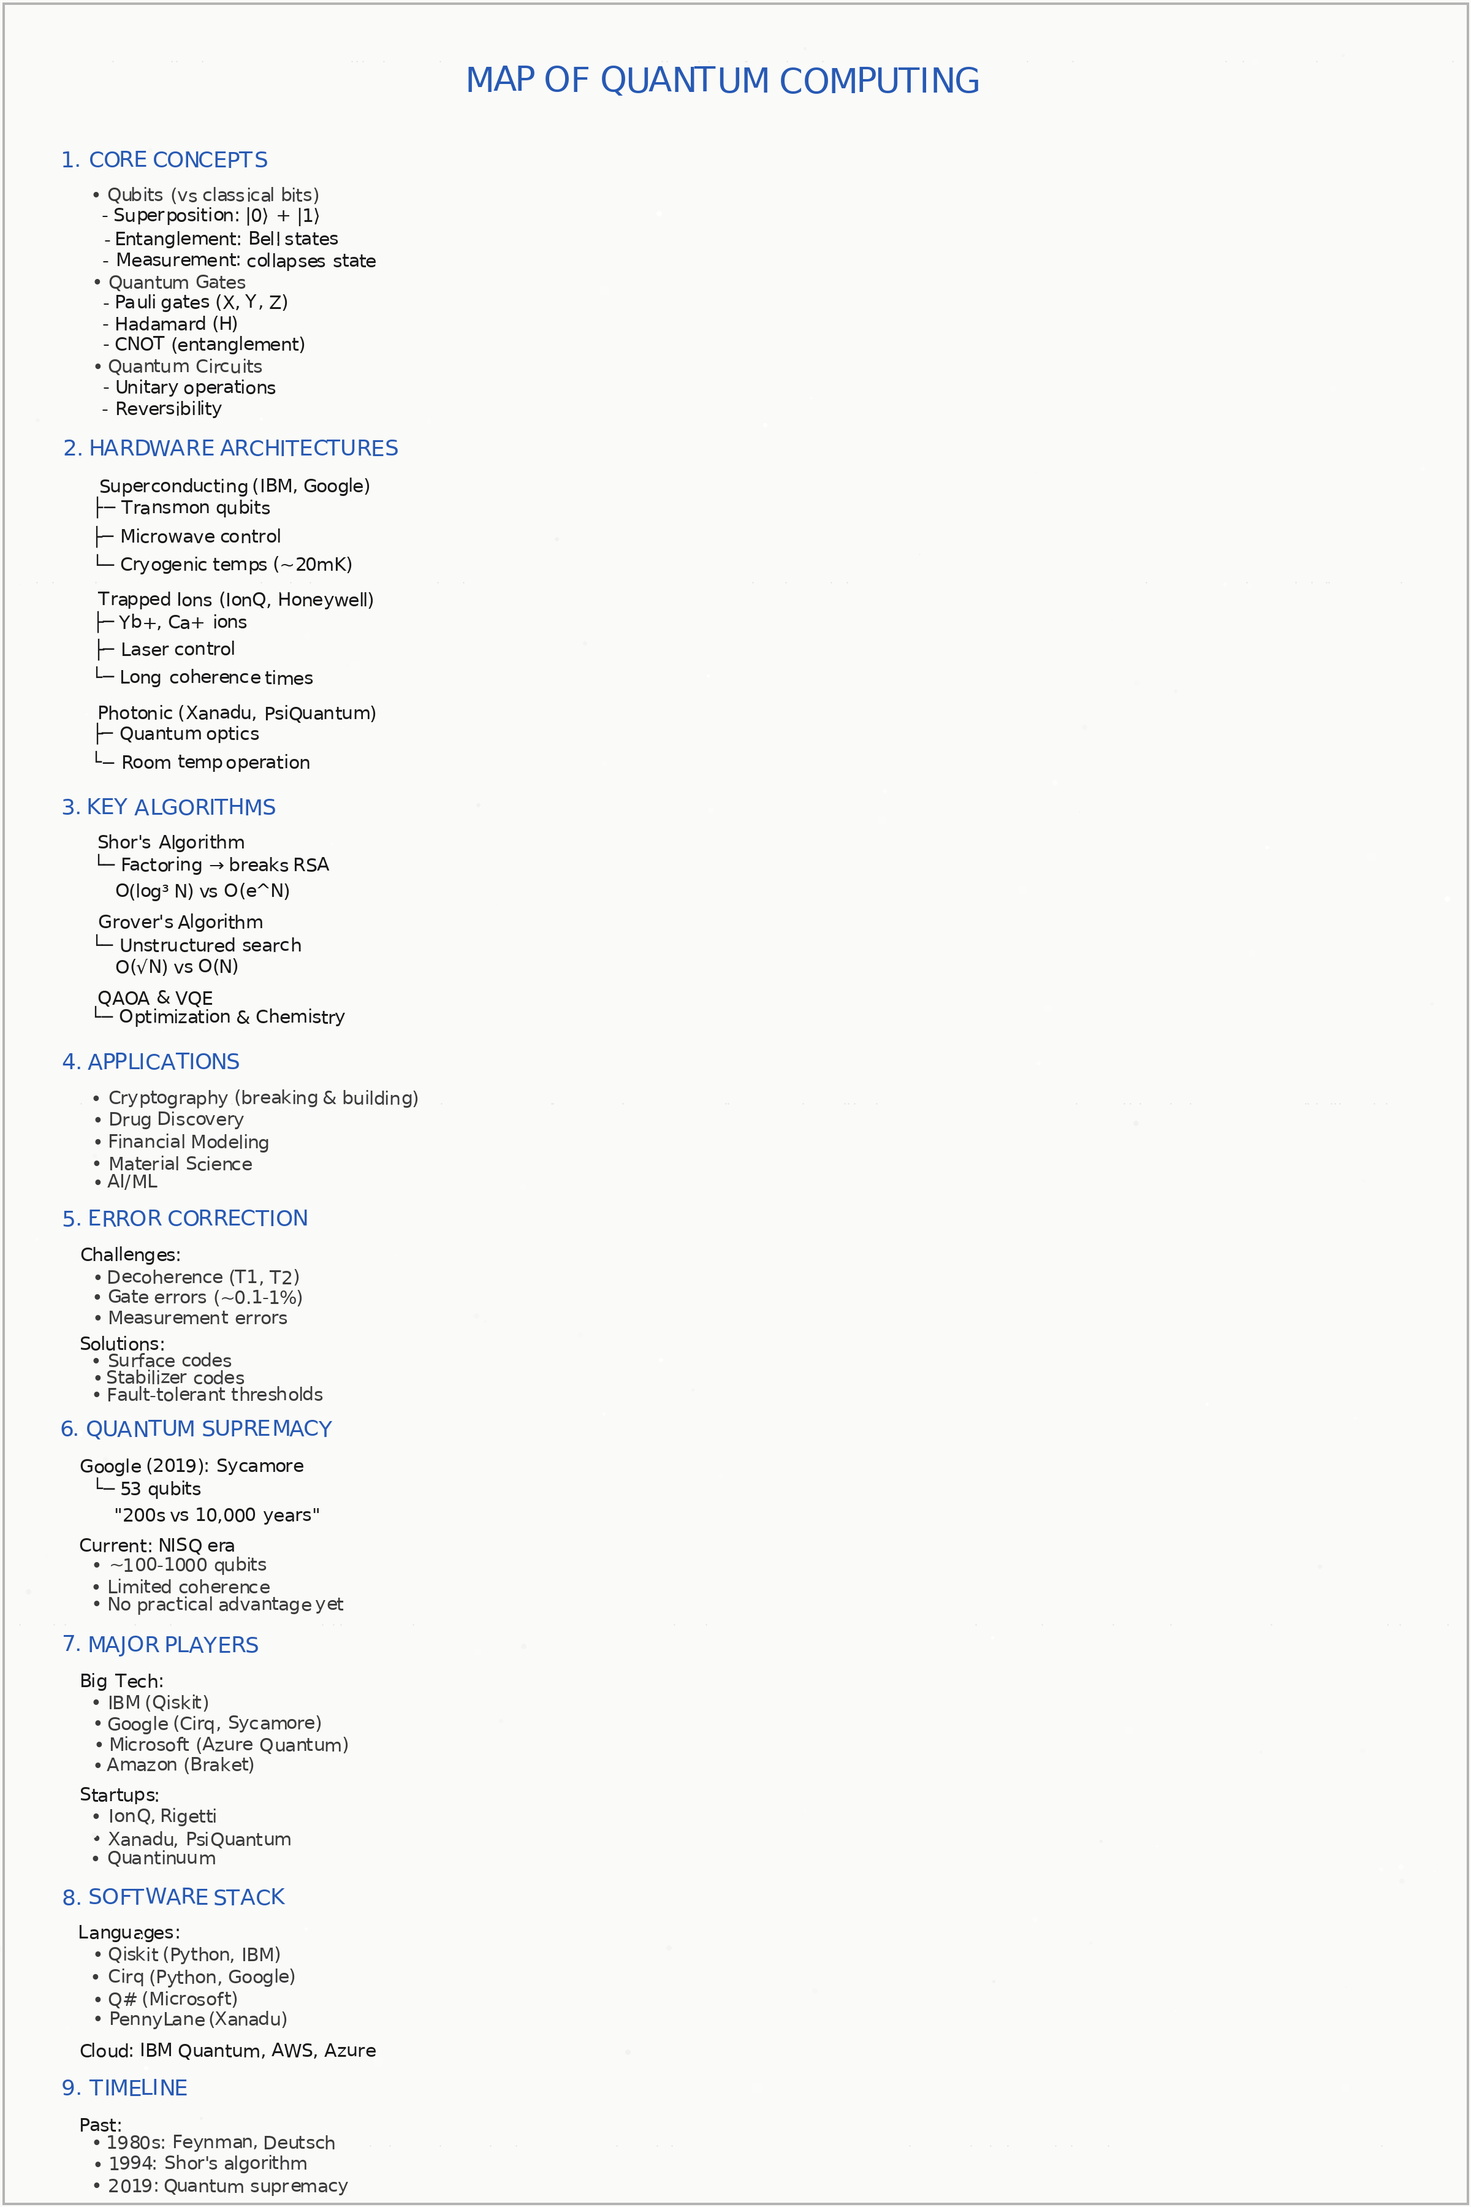
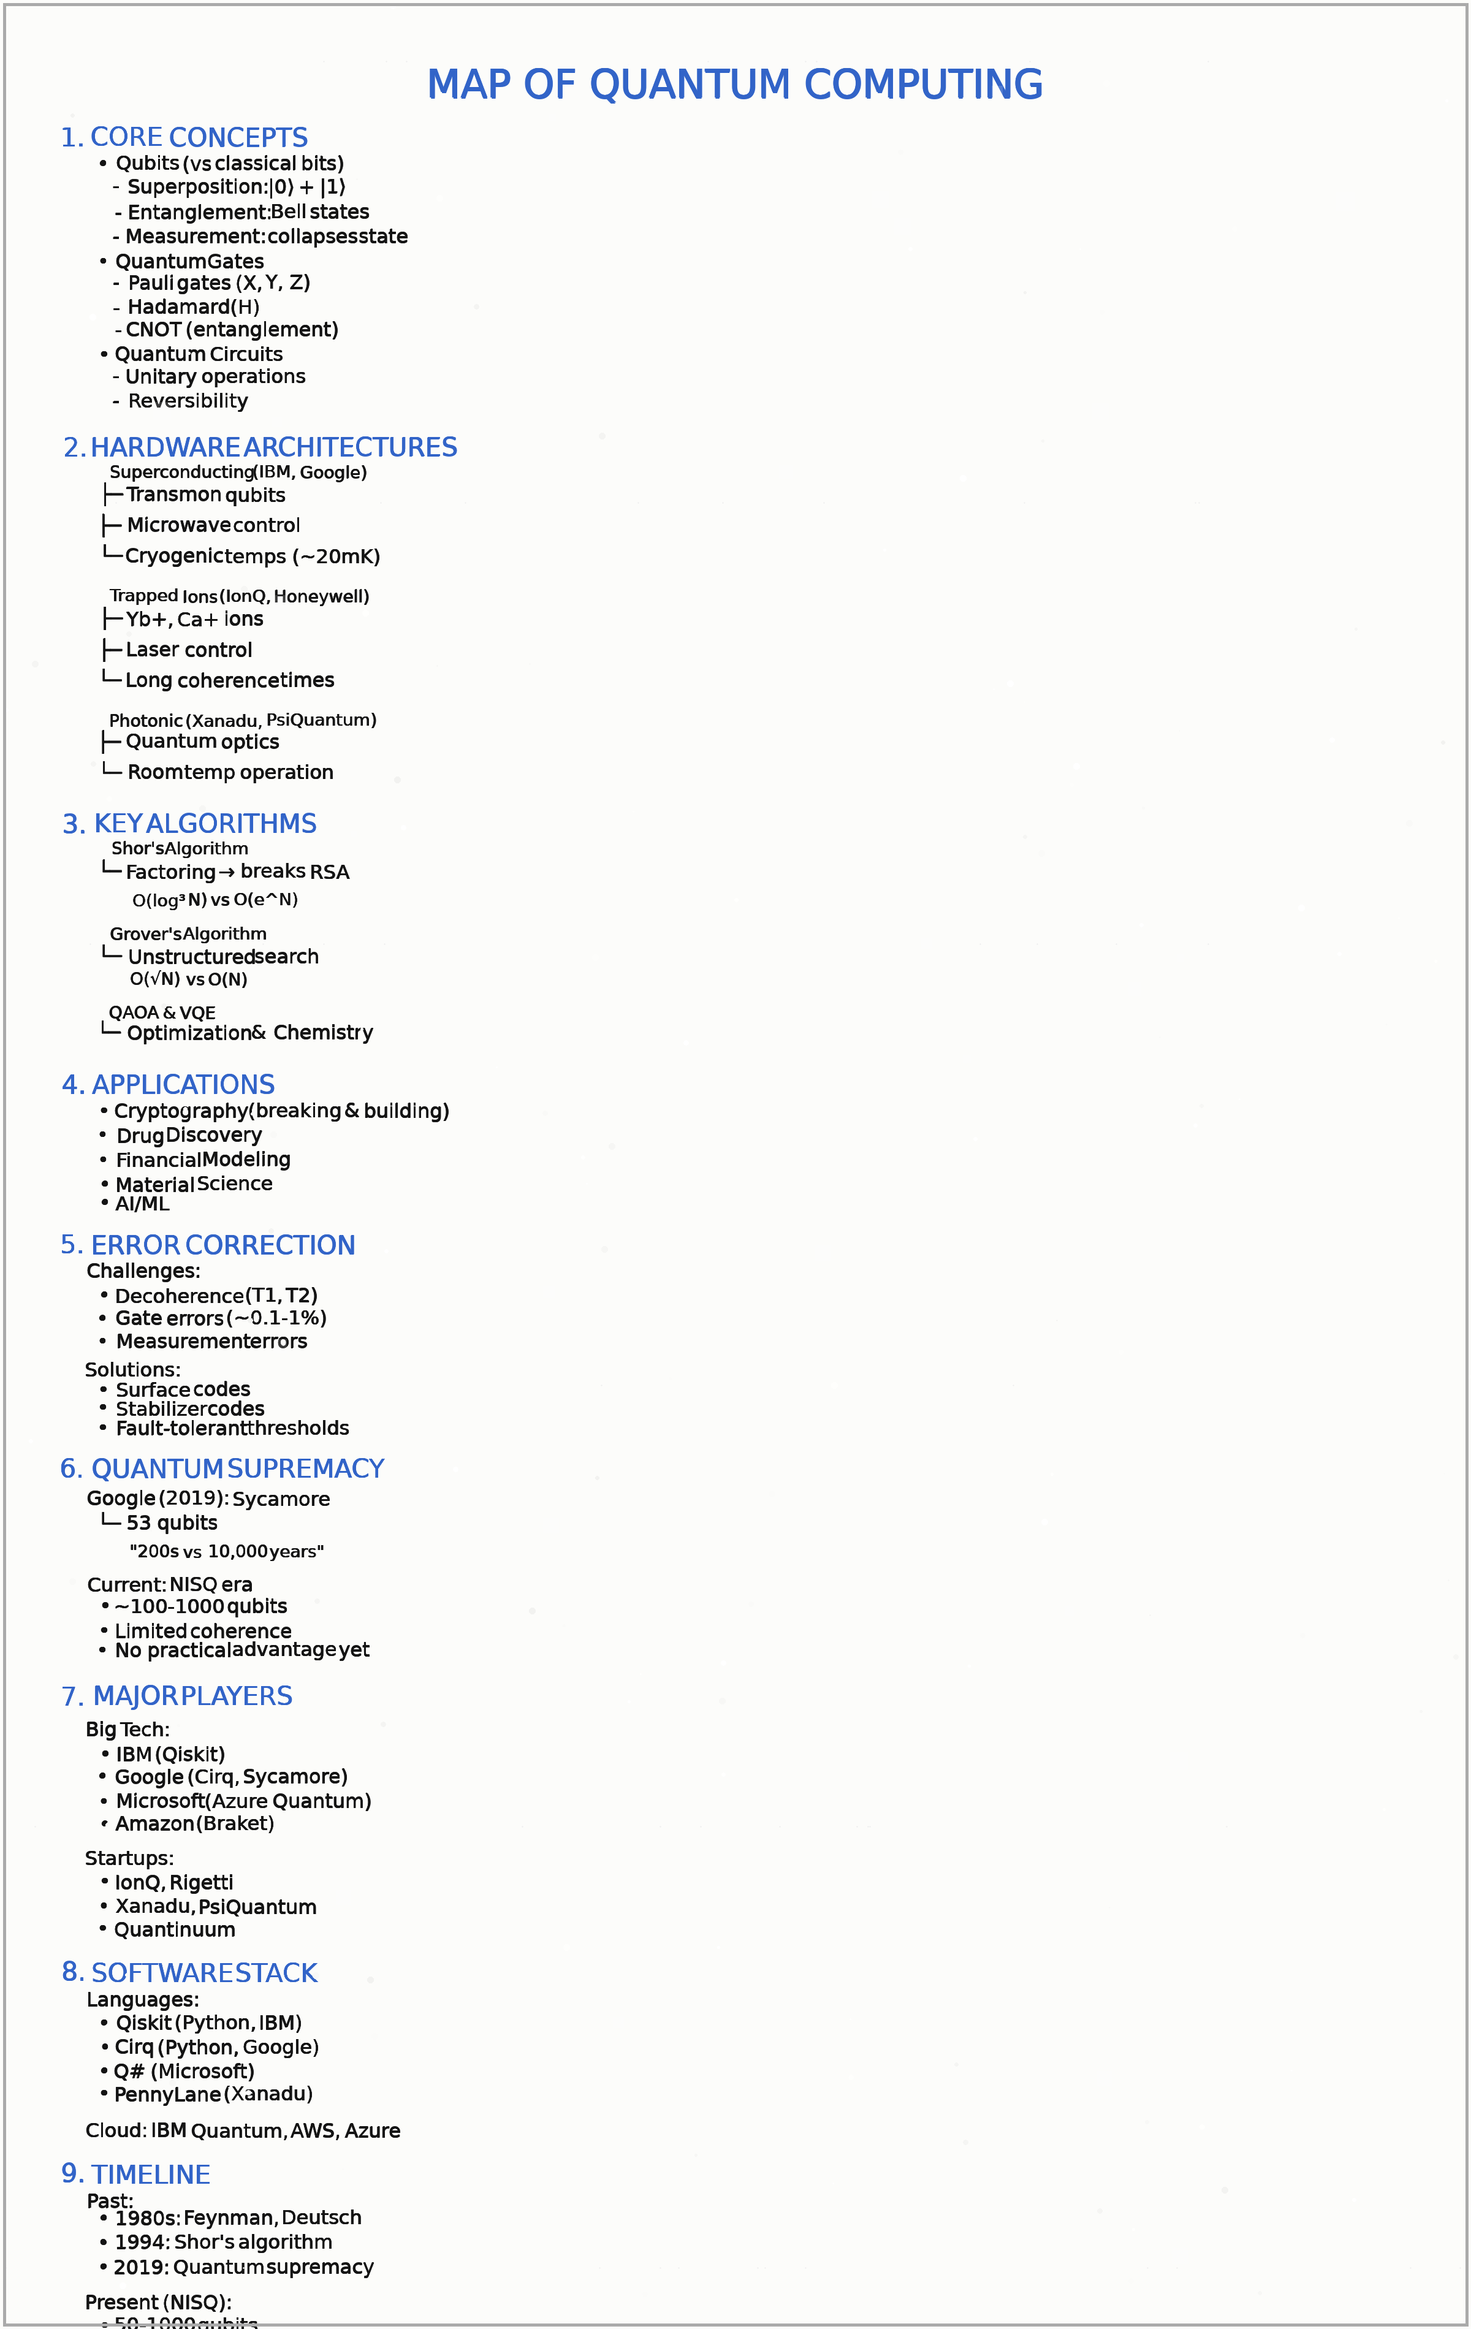
feat: Add script to generate handwritten quantum computing board

Changed region(s): [[0.0, 0.0311, 1.0, 1.0], [0.2812, 0.0311, 0.7188, 0.0622]]

diff --git a/generate_handwritten_board.py b/generate_handwritten_board.py
@@ -1,0 +1,369 @@
+#!/usr/bin/env python3
+"""
+Generate a truly handwritten-style board image
+Simulates marker/chalk writing on a whiteboard
+"""
+
+from PIL import Image, ImageDraw, ImageFont, ImageFilter
+import random
+import math
+
+# Board dimensions
+WIDTH = 2400
+HEIGHT = 3800
+MARGIN = 100
+
+# Colors - whiteboard with marker/chalk
+BOARD_COLOR = (252, 252, 250)  # Slightly off-white
+MARKER_COLOR = (20, 20, 20)  # Dark marker
+CHALK_BLUE = (50, 100, 200)  # Blue marker for headings
+CHALK_RED = (200, 50, 50)  # Red for emphasis
+
+def draw_handwritten_text(draw, text, position, font, color, img, 
+                          char_variation=3.0, word_variation=4.0, 
+                          size_variation=0.15, rotation_variation=2.0):
+    """Draw text that looks truly handwritten with significant variations"""
+    x, y = position
+    current_x = x
+    
+    words = text.split(' ')
+    for word in words:
+        if not word.strip():
+            current_x += font.size * 0.4
+            continue
+            
+        word_x = current_x
+        
+        # Word-level variation
+        word_offset_x = random.uniform(-word_variation, word_variation)
+        word_offset_y = random.uniform(-word_variation * 0.6, word_variation * 0.6)
+        word_rotation = random.uniform(-rotation_variation, rotation_variation)
+        
+        # Draw each character with significant variations
+        for char_idx, char in enumerate(word):
+            # Character-level variations
+            char_offset_x = random.uniform(-char_variation, char_variation)
+            char_offset_y = random.uniform(-char_variation * 0.8, char_variation * 0.8)
+            char_rotation = random.uniform(-rotation_variation * 0.7, rotation_variation * 0.7)
+            char_size_factor = 1.0 + random.uniform(-size_variation, size_variation)
+            
+            # Calculate position
+            char_x = word_x + word_offset_x + char_offset_x
+            char_y = y + word_offset_y + char_offset_y
+            
+            # Create a temporary image for this character to apply rotation
+            char_size = int(font.size * 1.5 * char_size_factor)
+            char_img = Image.new('RGBA', (char_size, char_size), (255, 255, 255, 0))
+            char_draw = ImageDraw.Draw(char_img)
+            
+            # Draw character in temp image
+            try:
+                # Try to get a slightly different sized font
+                char_font_size = int(font.size * char_size_factor)
+                char_font = ImageFont.truetype(font.path, char_font_size) if hasattr(font, 'path') else font
+            except:
+                char_font = font
+            
+            char_draw.text((char_size//4, char_size//4), char, fill=color, font=char_font)
+            
+            # Apply rotation
+            if abs(char_rotation) > 0.1:
+                rotated = char_img.rotate(char_rotation, expand=True, fillcolor=(255, 255, 255, 0))
+            else:
+                rotated = char_img
+            
+            # Paste onto main image
+            img.paste(rotated, (int(char_x), int(char_y)), rotated)
+            
+            # Get character width for spacing
+            bbox = char_draw.textbbox((0, 0), char, font=char_font)
+            char_width = (bbox[2] - bbox[0]) * 0.9  # Slight compression
+            word_x += char_width
+        
+        # Space between words
+        current_x = word_x + font.size * 0.35
+    
+    return current_x
+
+def draw_simple_handwritten(draw, text, position, font, color, 
+                           variation=2.5, size_var=0.12):
+    """Simpler handwritten effect - draw text multiple times with offsets for thickness"""
+    x, y = position
+    current_x = x
+    
+    words = text.split(' ')
+    for word in words:
+        if not word.strip():
+            current_x += font.size * 0.4
+            continue
+        
+        # Word position variation
+        base_x = current_x + random.uniform(-variation, variation)
+        base_y = y + random.uniform(-variation * 0.5, variation * 0.5)
+        
+        # Draw word multiple times with slight offsets for marker thickness
+        offsets = [
+            (0, 0),
+            (0.5, 0.3),
+            (-0.3, 0.4),
+            (0.3, -0.2),
+        ]
+        
+        for offset_x, offset_y in offsets:
+            draw.text((base_x + offset_x, base_y + offset_y), word + ' ', 
+                     fill=color, font=font)
+        
+        # Get word width
+        bbox = draw.textbbox((0, 0), word + ' ', font=font)
+        current_x += (bbox[2] - bbox[0]) * 0.95
+    
+    return current_x
+
+def create_handwritten_board():
+    """Create board with truly handwritten appearance"""
+    
+    # Create board
+    img = Image.new('RGB', (WIDTH, HEIGHT), BOARD_COLOR)
+    draw = ImageDraw.Draw(img)
+    
+    # Load fonts - use bold/regular for variation
+    try:
+        font_path = '/usr/share/fonts/truetype/dejavu/DejaVuSans.ttf'
+        title_font = ImageFont.truetype(font_path, 64)
+        heading_font = ImageFont.truetype(font_path, 42)
+        body_font = ImageFont.truetype(font_path, 32)
+        small_font = ImageFont.truetype(font_path, 28)
+    except:
+        title_font = ImageFont.load_default()
+        heading_font = ImageFont.load_default()
+        body_font = ImageFont.load_default()
+        small_font = ImageFont.load_default()
+    
+    y_pos = MARGIN
+    
+    # Title
+    title = "MAP OF QUANTUM COMPUTING"
+    bbox = draw.textbbox((0, 0), title, font=title_font)
+    text_width = bbox[2] - bbox[0]
+    x_pos = (WIDTH - text_width) // 2
+    
+    # Draw title with handwritten effect (thicker, more prominent)
+    for i in range(5):  # Multiple passes for thickness
+        offset_x = random.uniform(-1.5, 1.5)
+        offset_y = random.uniform(-1.5, 1.5)
+        draw.text((x_pos + offset_x, y_pos + offset_y), title, 
+                 fill=CHALK_BLUE, font=title_font)
+    
+    y_pos += 100
+    
+    # Content sections
+    content = [
+        ("1. CORE CONCEPTS", "heading", [
+            "• Qubits (vs classical bits)",
+            "  - Superposition: |0⟩ + |1⟩",
+            "  - Entanglement: Bell states",
+            "  - Measurement: collapses state",
+            "• Quantum Gates",
+            "  - Pauli gates (X, Y, Z)",
+            "  - Hadamard (H)",
+            "  - CNOT (entanglement)",
+            "• Quantum Circuits",
+            "  - Unitary operations",
+            "  - Reversibility",
+        ]),
+        ("2. HARDWARE ARCHITECTURES", "heading", [
+            "Superconducting (IBM, Google)",
+            "├─ Transmon qubits",
+            "├─ Microwave control",
+            "└─ Cryogenic temps (~20mK)",
+            "",
+            "Trapped Ions (IonQ, Honeywell)",
+            "├─ Yb+, Ca+ ions",
+            "├─ Laser control",
+            "└─ Long coherence times",
+            "",
+            "Photonic (Xanadu, PsiQuantum)",
+            "├─ Quantum optics",
+            "└─ Room temp operation",
+        ]),
+        ("3. KEY ALGORITHMS", "heading", [
+            "Shor's Algorithm",
+            "└─ Factoring → breaks RSA",
+            "   O(log³ N) vs O(e^N)",
+            "",
+            "Grover's Algorithm",
+            "└─ Unstructured search",
+            "   O(√N) vs O(N)",
+            "",
+            "QAOA & VQE",
+            "└─ Optimization & Chemistry",
+        ]),
+        ("4. APPLICATIONS", "heading", [
+            "• Cryptography (breaking & building)",
+            "• Drug Discovery",
+            "• Financial Modeling",
+            "• Material Science",
+            "• AI/ML",
+        ]),
+        ("5. ERROR CORRECTION", "heading", [
+            "Challenges:",
+            "• Decoherence (T1, T2)",
+            "• Gate errors (~0.1-1%)",
+            "• Measurement errors",
+            "",
+            "Solutions:",
+            "• Surface codes",
+            "• Stabilizer codes",
+            "• Fault-tolerant thresholds",
+        ]),
+        ("6. QUANTUM SUPREMACY", "heading", [
+            "Google (2019): Sycamore",
+            "└─ 53 qubits",
+            '   "200s vs 10,000 years"',
+            "",
+            "Current: NISQ era",
+            "• ~100-1000 qubits",
+            "• Limited coherence",
+            "• No practical advantage yet",
+        ]),
+        ("7. MAJOR PLAYERS", "heading", [
+            "Big Tech:",
+            "• IBM (Qiskit)",
+            "• Google (Cirq, Sycamore)",
+            "• Microsoft (Azure Quantum)",
+            "• Amazon (Braket)",
+            "",
+            "Startups:",
+            "• IonQ, Rigetti",
+            "• Xanadu, PsiQuantum",
+            "• Quantinuum",
+        ]),
+        ("8. SOFTWARE STACK", "heading", [
+            "Languages:",
+            "• Qiskit (Python, IBM)",
+            "• Cirq (Python, Google)",
+            "• Q# (Microsoft)",
+            "• PennyLane (Xanadu)",
+            "",
+            "Cloud: IBM Quantum, AWS, Azure",
+        ]),
+        ("9. TIMELINE", "heading", [
+            "Past:",
+            "• 1980s: Feynman, Deutsch",
+            "• 1994: Shor's algorithm",
+            "• 2019: Quantum supremacy",
+            "",
+            "Present (NISQ):",
+            "• 50-1000 qubits",
+            "• High error rates",
+            "",
+            "Future:",
+            "• 2025-2030: 1000-10000 qubits",
+            "• Error correction working",
+        ]),
+        ("10. CHALLENGES", "heading", [
+            "Technical:",
+            "• Scaling qubit count",
+            "• Reducing errors",
+            "• Better connectivity",
+            "",
+            "Practical:",
+            "• Cost (millions)",
+            "• Expertise gap",
+        ]),
+        ("KEY TAKEAWAY:", "highlight", [
+            "Quantum computing = exponential speedup",
+            "for SPECIFIC problems",
+            "NOT a replacement for classical computing",
+            "",
+            "Still early days, but progress accelerating!",
+            '"The quantum winter is over" 🌱',
+        ]),
+    ]
+    
+    # Draw all sections
+    for section_title, section_type, items in content:
+        # Section heading
+        x_pos = MARGIN
+        color = CHALK_BLUE if section_type == "heading" else CHALK_RED
+        font_to_use = heading_font if section_type != "highlight" else title_font
+        
+        # Draw heading with handwritten effect
+        draw_simple_handwritten(draw, section_title, (x_pos, y_pos), 
+                               font_to_use, color, variation=3.0, size_var=0.1)
+        
+        # Calculate heading height
+        bbox = draw.textbbox((0, 0), section_title, font=font_to_use)
+        y_pos += int((bbox[3] - bbox[1]) * 1.5)
+        
+        # Draw items
+        for item in items:
+            if item.strip():
+                # Determine indentation and font
+                if item.strip().startswith(('•', '-', '├', '└')):
+                    x_offset = MARGIN + 60
+                    item_font = body_font
+                elif item.strip()[0].isupper() and ':' in item:
+                    x_offset = MARGIN + 40
+                    item_font = body_font
+                else:
+                    x_offset = MARGIN + 80
+                    item_font = small_font
+                
+                # Draw with handwritten effect
+                draw_simple_handwritten(draw, item, (x_offset, y_pos),
+                                       item_font, MARKER_COLOR, 
+                                       variation=2.5, size_var=0.12)
+                
+                # Calculate line height
+                bbox = draw.textbbox((0, 0), item, font=item_font)
+                y_pos += int((bbox[3] - bbox[1]) * 1.3)
+            else:
+                y_pos += int(body_font.size * 0.6)
+        
+        y_pos += 30  # Space between sections
+    
+    # Add board texture
+    for _ in range(150):
+        x = random.randint(0, WIDTH)
+        y = random.randint(0, HEIGHT)
+        radius = random.randint(1, 5)
+        color_var = random.randint(-10, 10)
+        color = tuple(max(240, min(255, c + color_var)) for c in BOARD_COLOR)
+        draw.ellipse([x-radius, y-radius, x+radius, y+radius], fill=color)
+    
+    # Add subtle grid (like whiteboard lines)
+    for i in range(6):
+        y_line = MARGIN + i * (HEIGHT - 2*MARGIN) // 5
+        for x in range(0, WIDTH, 3):
+            if random.random() > 0.99:
+                draw.ellipse([x-1, y_line-1, x+1, y_line+1], 
+                           fill=(240, 240, 240))
+    
+    # Add eraser marks/smudges
+    for _ in range(25):
+        x = random.randint(MARGIN, WIDTH - MARGIN)
+        y = random.randint(MARGIN, HEIGHT - MARGIN)
+        radius = random.randint(5, 15)
+        # Semi-transparent white smudge
+        smudge = Image.new('RGBA', (radius*2, radius*2), (255, 255, 255, 40))
+        img.paste(smudge, (x-radius, y-radius), smudge)
+    
+    # Add border
+    border_width = 5
+    draw.rectangle([border_width, border_width, WIDTH-border_width, HEIGHT-border_width],
+                  outline=(170, 170, 170), width=border_width)
+    
+    # Add some marker bleed effects (slight blur on some text areas)
+    # This would require more complex processing, so we'll skip for now
+    
+    return img
+
+if __name__ == '__main__':
+    print("Generating handwritten board image...")
+    random.seed(42)  # For reproducibility
+    img = create_handwritten_board()
+    output_path = 'quantum_computing_map_board.png'
+    img.save(output_path, 'PNG', quality=95, optimize=True)
+    print(f"Image saved to {output_path}")
+    print(f"Image size: {img.size[0]}x{img.size[1]} pixels")
